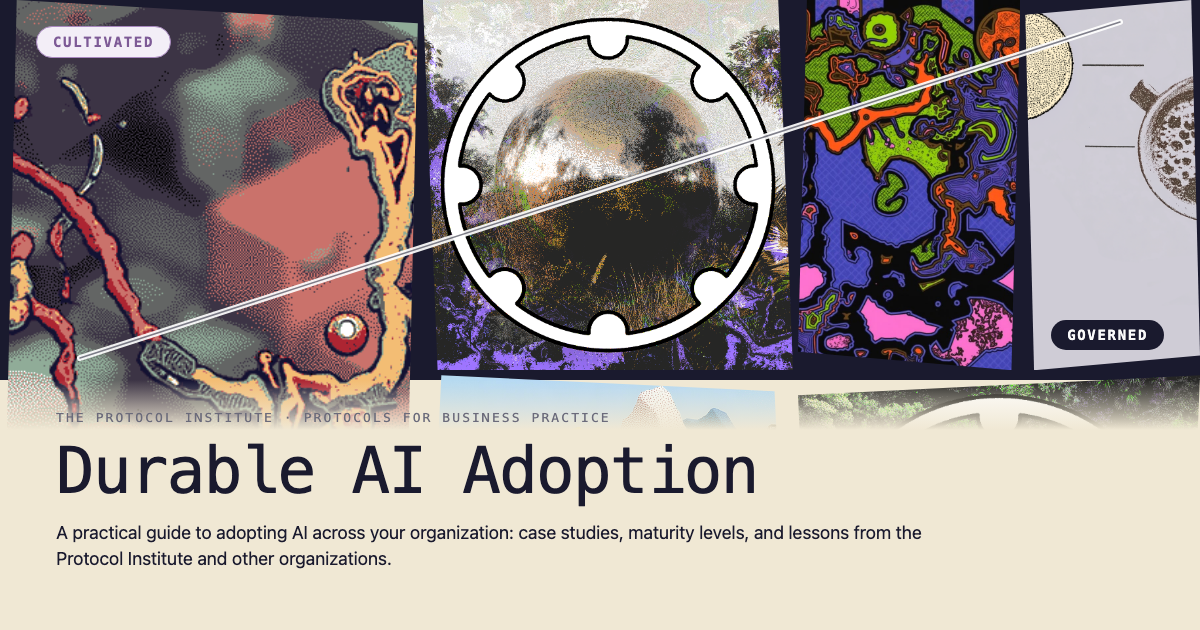
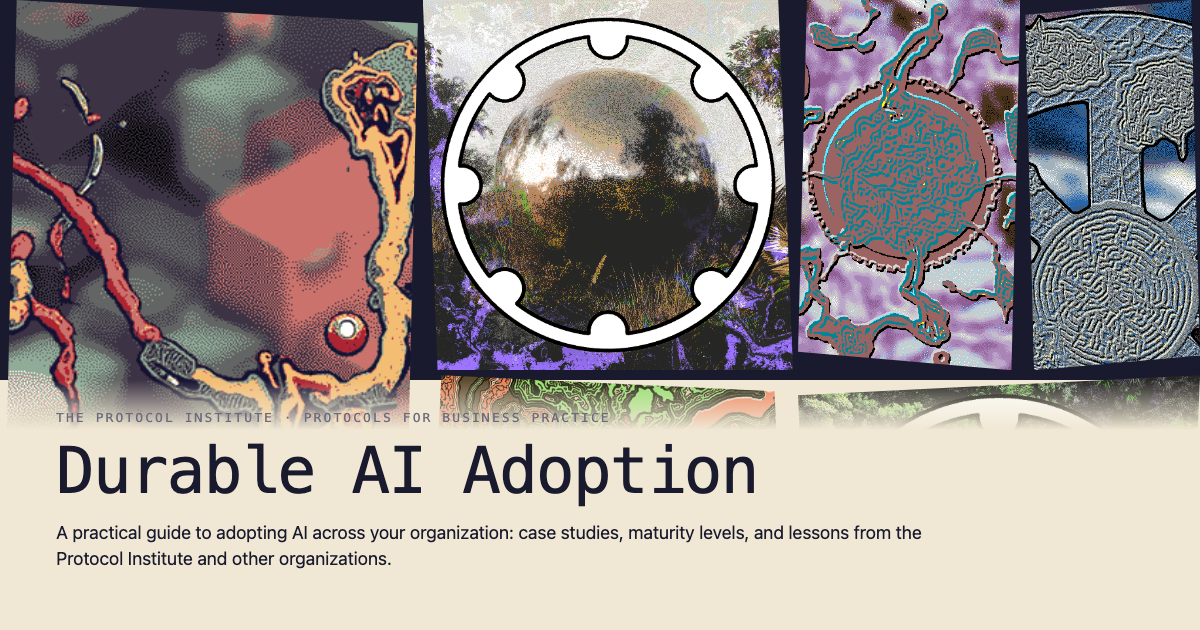
Cover: drop slash + pills; rebuild collage from level images only
The slash and Cultivated/Governed corner pills were doing two jobs at
once (foreshadowing the dual track + labeling each half) and ended up
distracting from the cover. Removed both.

The collage now uses only the 10 maturity-level images (5 governed +
5 cultivated), with 4 of the strongest anchors repeated to fill the
14-cell quilt. The duality reads through the contrast between the
medallion-style governed images and the dense gestural cultivated
images, without needing the explicit label.

Re-rendered og-cover.png (1200×630) so the social card matches.

diff --git a/Deployment-Guide/html/slides.html b/Deployment-Guide/html/slides.html
@@ -181,41 +181,6 @@
     .cover-img-13 { grid-area: 4 / 6 / 6 / 7; clip-path: polygon(4% 0, 100% 5%, 96% 100%, 0 95%); }
     .cover-img-14 { grid-area: 5 / 1 / 6 / 4; clip-path: polygon(0 0, 96% 4%, 100% 100%, 5% 95%); }
 
-    .cover-slash {
-      position: absolute;
-      top: 0;
-      left: 0;
-      right: 0;
-      height: 4.5in;
-      pointer-events: none;
-      z-index: 5;
-    }
-    .cover-slash svg { width: 100%; height: 100%; display: block; }
-    .cover-slash-pill {
-      position: absolute;
-      font-family: var(--font-mono);
-      font-size: var(--fs-caption);
-      font-weight: 700;
-      letter-spacing: 0.12em;
-      text-transform: uppercase;
-      padding: 4pt 12pt;
-      border-radius: 100px;
-      z-index: 6;
-    }
-    .cover-slash-pill.cultivated {
-      background: var(--accent-light);
-      color: var(--accent-dark);
-      border: 1px solid var(--accent);
-      top: 0.35in;
-      left: 0.55in;
-    }
-    .cover-slash-pill.governed {
-      background: var(--text);
-      color: #fafafa;
-      top: 3.7in;
-      right: 0.55in;
-    }
-
     .cover-text {
       position: absolute;
       bottom: 0;
@@ -2470,27 +2435,19 @@
   <div class="cover-collage" aria-hidden="true">
     <img class="cover-img-1"  src="./images/theorizing-protocolization.png" alt="">
     <img class="cover-img-2"  src="./images/from-destination-ai-to-intelligence-media.png" alt="">
-    <img class="cover-img-3"  src="./images/mechanical-currents.jpeg" alt="">
+    <img class="cover-img-3"  src="./images/how-to-protocol-watch.png" alt="">
     <img class="cover-img-4"  src="./images/have-your-factory-call-my-factory.png" alt="">
-    <img class="cover-img-5"  src="./images/finding-fault-lines.jpg" alt="">
-    <img class="cover-img-6"  src="./images/constructing-the-evil-twin-of-ai.png" alt="">
+    <img class="cover-img-5"  src="./images/theorizing-protocolization-ii.png" alt="">
+    <img class="cover-img-6"  src="./images/introducing-the-protocol-institute.png" alt="">
     <img class="cover-img-7"  src="./images/fabric-and-brain.png" alt="">
-    <img class="cover-img-8"  src="./images/theorizing-protocolization-ii.png" alt="">
-    <img class="cover-img-9"  src="./images/strangeness-legibility-hardness.png" alt="">
-    <img class="cover-img-10" src="./images/faithful-channel.png" alt="">
-    <img class="cover-img-11" src="./images/primordial-soup.png" alt="">
-    <img class="cover-img-12" src="./images/last-mile-optimism.png" alt="">
-    <img class="cover-img-13" src="./images/open-protocols-government.png" alt="">
-    <img class="cover-img-14" src="./images/the-last-archive.png" alt="">
+    <img class="cover-img-8"  src="./images/faithful-channel.png" alt="">
+    <img class="cover-img-9"  src="./images/finding-fault-lines-within-the-firm.png" alt="">
+    <img class="cover-img-10" src="./images/primordial-soup.png" alt="">
+    <img class="cover-img-11" src="./images/theorizing-protocolization.png" alt="">
+    <img class="cover-img-12" src="./images/how-to-protocol-watch.png" alt="">
+    <img class="cover-img-13" src="./images/faithful-channel.png" alt="">
+    <img class="cover-img-14" src="./images/fabric-and-brain.png" alt="">
   </div>
-  <div class="cover-slash" aria-hidden="true">
-    <svg viewBox="0 0 1100 432" preserveAspectRatio="none">
-      <line x1="80" y1="412" x2="1020" y2="20" stroke="#ffffff" stroke-width="6" stroke-linecap="round" vector-effect="non-scaling-stroke" opacity="0.92"/>
-      <line x1="80" y1="412" x2="1020" y2="20" stroke="#1a1a2e" stroke-width="1.5" stroke-linecap="round" vector-effect="non-scaling-stroke" opacity="0.55"/>
-    </svg>
-  </div>
-  <span class="cover-slash-pill cultivated">Cultivated</span>
-  <span class="cover-slash-pill governed">Governed</span>
   <div class="cover-text">
     <div class="cover-eyebrow"><a href="https://protocol-institute.org/" target="_blank" rel="noopener">The Protocol Institute</a> · Protocols for Business Practice</div>
     <h1 class="cover-title">Durable AI Adoption</h1>

diff --git a/Deployment-Guide/html/_og-cover.html b/Deployment-Guide/html/_og-cover.html
@@ -43,34 +43,6 @@
   .c12 { grid-area: 4 / 5 / 6 / 6; clip-path: polygon(0 4%, 100% 0, 95% 100%, 5% 96%); }
   .c13 { grid-area: 4 / 6 / 6 / 7; clip-path: polygon(4% 0, 100% 5%, 96% 100%, 0 95%); }
   .c14 { grid-area: 5 / 1 / 6 / 4; clip-path: polygon(0 0, 96% 4%, 100% 100%, 5% 95%); }
-  .slash {
-    position: absolute; top: 0; left: 0; right: 0; height: 380px; pointer-events: none; z-index: 5;
-  }
-  .slash svg { width: 100%; height: 100%; display: block; }
-  .pill {
-    position: absolute;
-    font-family: var(--font-mono);
-    font-size: 14px;
-    font-weight: 700;
-    letter-spacing: 0.12em;
-    text-transform: uppercase;
-    padding: 7px 16px;
-    border-radius: 100px;
-    z-index: 6;
-  }
-  .pill.cultivated {
-    background: var(--accent-light);
-    color: var(--accent-dark);
-    border: 1px solid var(--accent);
-    top: 26px;
-    left: 36px;
-  }
-  .pill.governed {
-    background: var(--text);
-    color: #fafafa;
-    top: 320px;
-    right: 36px;
-  }
   .card-text {
     position: absolute;
     top: 380px;
@@ -111,27 +83,19 @@
   <div class="collage">
     <img class="c1"  src="./images/theorizing-protocolization.png" alt="">
     <img class="c2"  src="./images/from-destination-ai-to-intelligence-media.png" alt="">
-    <img class="c3"  src="./images/mechanical-currents.jpeg" alt="">
+    <img class="c3"  src="./images/how-to-protocol-watch.png" alt="">
     <img class="c4"  src="./images/have-your-factory-call-my-factory.png" alt="">
-    <img class="c5"  src="./images/finding-fault-lines.jpg" alt="">
-    <img class="c6"  src="./images/constructing-the-evil-twin-of-ai.png" alt="">
+    <img class="c5"  src="./images/theorizing-protocolization-ii.png" alt="">
+    <img class="c6"  src="./images/introducing-the-protocol-institute.png" alt="">
     <img class="c7"  src="./images/fabric-and-brain.png" alt="">
-    <img class="c8"  src="./images/theorizing-protocolization-ii.png" alt="">
-    <img class="c9"  src="./images/strangeness-legibility-hardness.png" alt="">
-    <img class="c10" src="./images/faithful-channel.png" alt="">
-    <img class="c11" src="./images/primordial-soup.png" alt="">
-    <img class="c12" src="./images/last-mile-optimism.png" alt="">
-    <img class="c13" src="./images/open-protocols-government.png" alt="">
-    <img class="c14" src="./images/the-last-archive.png" alt="">
+    <img class="c8"  src="./images/faithful-channel.png" alt="">
+    <img class="c9"  src="./images/finding-fault-lines-within-the-firm.png" alt="">
+    <img class="c10" src="./images/primordial-soup.png" alt="">
+    <img class="c11" src="./images/theorizing-protocolization.png" alt="">
+    <img class="c12" src="./images/how-to-protocol-watch.png" alt="">
+    <img class="c13" src="./images/faithful-channel.png" alt="">
+    <img class="c14" src="./images/fabric-and-brain.png" alt="">
   </div>
-  <div class="slash" aria-hidden="true">
-    <svg viewBox="0 0 1200 380" preserveAspectRatio="none">
-      <line x1="80" y1="358" x2="1120" y2="22" stroke="#ffffff" stroke-width="6" stroke-linecap="round" vector-effect="non-scaling-stroke" opacity="0.92"/>
-      <line x1="80" y1="358" x2="1120" y2="22" stroke="#1a1a2e" stroke-width="1.5" stroke-linecap="round" vector-effect="non-scaling-stroke" opacity="0.55"/>
-    </svg>
-  </div>
-  <span class="pill cultivated">Cultivated</span>
-  <span class="pill governed">Governed</span>
   <div class="card-text">
     <div class="eyebrow">The Protocol Institute · Protocols for Business Practice</div>
     <h1 class="title">Durable AI Adoption</h1>
